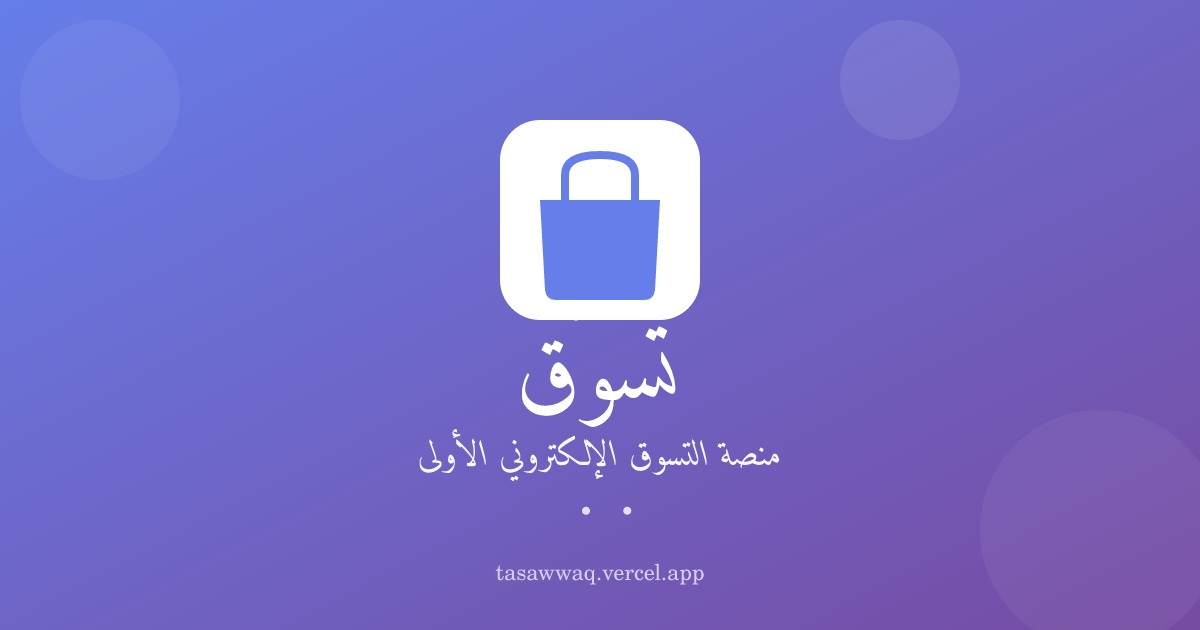
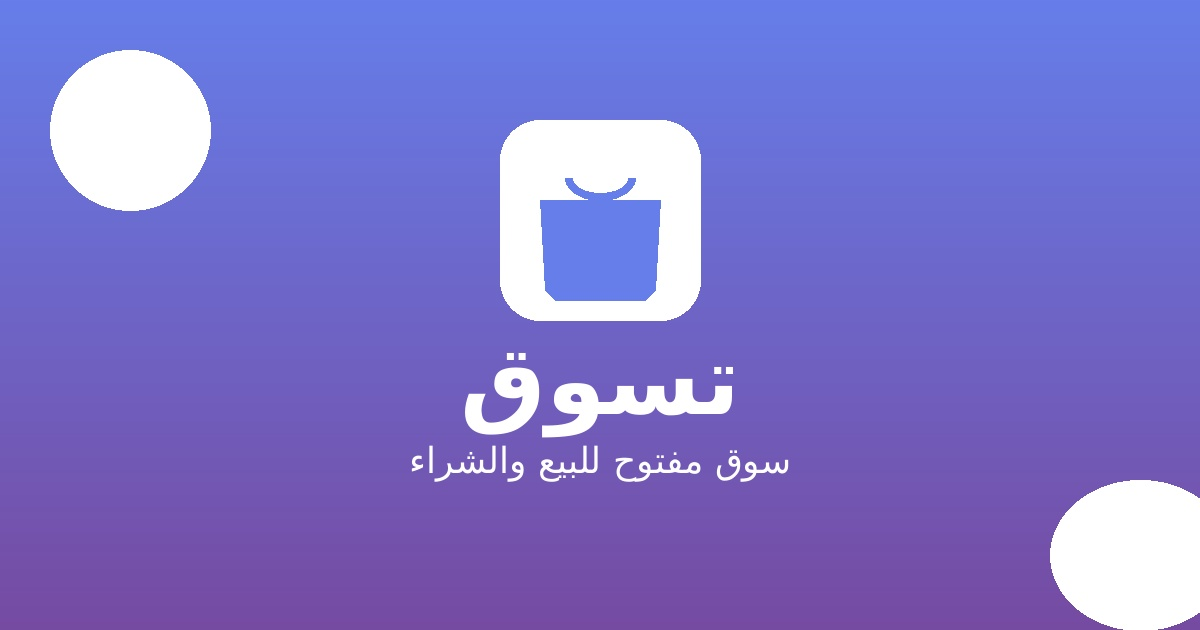
fix: use www domain and recreate og image from scratch

diff --git a/index.html b/index.html
@@ -37,7 +37,7 @@
     <!-- ═══════════════════════════════════════════════════════ -->
     <!-- 🔗 Canonical URL                                        -->
     <!-- ═══════════════════════════════════════════════════════ -->
-    <link rel="canonical" href="https://tasawwaq.store" />
+    <link rel="canonical" href="https://www.tasawwaq.store" />
 
     <!-- ═══════════════════════════════════════════════════════ -->
     <!-- 📝 SEO Meta Tags                                        -->
@@ -72,13 +72,13 @@
     <meta property="og:site_name" content="تسوّق" />
     <meta property="og:title" content="تسوّق | سوق مفتوح للبيع والشراء" />
     <meta property="og:description" content="اشترِ أو بيع منتجاتك على تسوّق بسهولة وأمان." />
-    <meta property="og:image" content="https://tasawwaq.store/og-image.jpg" />
-    <meta property="og:image:secure_url" content="https://tasawwaq.store/og-image.jpg" />
+    <meta property="og:image" content="https://www.tasawwaq.store/og-image.jpg" />
+    <meta property="og:image:secure_url" content="https://www.tasawwaq.store/og-image.jpg" />
     <meta property="og:image:type" content="image/jpeg" />
     <meta property="og:image:width" content="1200" />
     <meta property="og:image:height" content="630" />
     <meta property="og:image:alt" content="تسوّق - سوق مفتوح للبيع والشراء" />
-    <meta property="og:url" content="https://tasawwaq.store" />
+    <meta property="og:url" content="https://www.tasawwaq.store" />
     <meta property="og:locale" content="ar_EG" />
     <meta property="og:locale:alternate" content="ar_AR" />
     <meta property="og:locale:alternate" content="en_US" />
@@ -91,7 +91,7 @@
     <meta name="twitter:creator" content="@tasawwaq" />
     <meta name="twitter:title" content="تسوّق | سوق مفتوح للبيع والشراء" />
     <meta name="twitter:description" content="اشترِ أو بيع منتجاتك على تسوّق بسهولة وأمان." />
-    <meta name="twitter:image" content="https://tasawwaq.store/og-image.jpg" />
+    <meta name="twitter:image" content="https://www.tasawwaq.store/og-image.jpg" />
     <meta name="twitter:image:alt" content="تسوّق - سوق مفتوح للبيع والشراء" />
 
     <!-- ═══════════════════════════════════════════════════════ -->
@@ -122,14 +122,14 @@
       "@type": "WebSite",
       "name": "تسوّق",
       "alternateName": "Tasawwaq",
-      "url": "https://tasawwaq.store",
+      "url": "https://www.tasawwaq.store",
       "description": "تسوّق - سوق مفتوح للبيع والشراء. اشترِ أو بيع منتجاتك بسهولة وأمان.",
       "inLanguage": "ar-EG",
       "potentialAction": {
         "@type": "SearchAction",
         "target": {
           "@type": "EntryPoint",
-          "urlTemplate": "https://tasawwaq.store/products?search={search_term_string}"
+          "urlTemplate": "https://www.tasawwaq.store/products?search={search_term_string}"
         },
         "query-input": "required name=search_term_string"
       }
@@ -145,14 +145,14 @@
       "@type": "Organization",
       "name": "تسوّق",
       "alternateName": "Tasawwaq",
-      "url": "https://tasawwaq.store",
+      "url": "https://www.tasawwaq.store",
       "logo": {
         "@type": "ImageObject",
-        "url": "https://tasawwaq.store/logo.svg",
+        "url": "https://www.tasawwaq.store/logo.svg",
         "width": 512,
         "height": 512
       },
-      "image": "https://tasawwaq.store/og-image.png",
+      "image": "https://www.tasawwaq.store/og-image.jpg",
       "description": "تسوّق - سوق مفتوح للبيع والشراء",
       "foundingDate": "2025",
       "address": {
@@ -189,13 +189,13 @@
       "@context": "https://schema.org",
       "@type": "WebPage",
       "name": "تسوّق - الصفحة الرئيسية",
-      "url": "https://tasawwaq.store",
+      "url": "https://www.tasawwaq.store",
       "description": "تسوّق - سوق مفتوح للبيع والشراء",
       "inLanguage": "ar-EG",
       "isPartOf": {
         "@type": "WebSite",
         "name": "تسوّق",
-        "url": "https://tasawwaq.store"
+        "url": "https://www.tasawwaq.store"
       }
     }
     </script>

diff --git a/src/pages/customer/ProductDetailsPage.jsx b/src/pages/customer/ProductDetailsPage.jsx
@@ -81,7 +81,7 @@ const ProductDetailsPage = () => {
     },
     offers: {
       '@type': 'Offer',
-      url: `https://tasawwaq.store/products/${product.id}`,
+      url: `https://www.tasawwaq.store/products/${product.id}`,
       priceCurrency: 'EGP',
       price: product.price,
       availability: product.stock > 0
@@ -124,13 +124,13 @@ const ProductDetailsPage = () => {
       '@type': 'ListItem',
       position: 1,
       name: 'الرئيسية',
-      item: 'https://tasawwaq.store',
+      item: 'https://www.tasawwaq.store',
     },
     {
       '@type': 'ListItem',
       position: 2,
       name: 'المنتجات',
-      item: 'https://tasawwaq.store/products',
+      item: 'https://www.tasawwaq.store/products',
     },
   ];
 
@@ -139,20 +139,20 @@ const ProductDetailsPage = () => {
       '@type': 'ListItem',
       position: 3,
       name: product.categoryName,
-      item: `https://tasawwaq.store/categories/${product.categoryId}/products`,
+      item: `https://www.tasawwaq.store/categories/${product.categoryId}/products`,
     });
     breadcrumbListItems.push({
       '@type': 'ListItem',
       position: 4,
       name: product.name,
-      item: `https://tasawwaq.store/products/${product.id}`,
+      item: `https://www.tasawwaq.store/products/${product.id}`,
     });
   } else {
     breadcrumbListItems.push({
       '@type': 'ListItem',
       position: 3,
       name: product.name,
-      item: `https://tasawwaq.store/products/${product.id}`,
+      item: `https://www.tasawwaq.store/products/${product.id}`,
     });
   }
 

diff --git a/src/pages/static/AboutPage.jsx b/src/pages/static/AboutPage.jsx
@@ -10,13 +10,13 @@ const AboutPage = () => {
     '@type': 'AboutPage',
     name: 'عن تسوّق',
     description: 'تعرّف على منصة تسوّق - السوق الإلكتروني الأول في مصر. مهمتنا، رؤيتنا، وقيمنا.',
-    url: 'https://tasawwaq.store/about',
+    url: 'https://www.tasawwaq.store/about',
     mainEntity: {
       '@type': 'Organization',
       name: 'تسوّق',
       alternateName: 'Tasawwaq',
-      url: 'https://tasawwaq.store',
-      logo: 'https://tasawwaq.store/logo.svg',
+      url: 'https://www.tasawwaq.store',
+      logo: 'https://www.tasawwaq.store/logo.svg',
       description: 'منصة تسوّق الإلكترونية - السوق الإلكتروني الأول في مصر',
       foundingDate: '2025',
       areaServed: { '@type': 'Country', name: 'Egypt' },
@@ -28,8 +28,8 @@ const AboutPage = () => {
     '@context': 'https://schema.org',
     '@type': 'BreadcrumbList',
     itemListElement: [
-      { '@type': 'ListItem', position: 1, name: 'الرئيسية', item: 'https://tasawwaq.store' },
-      { '@type': 'ListItem', position: 2, name: 'عن تسوّق', item: 'https://tasawwaq.store/about' },
+      { '@type': 'ListItem', position: 1, name: 'الرئيسية', item: 'https://www.tasawwaq.store' },
+      { '@type': 'ListItem', position: 2, name: 'عن تسوّق', item: 'https://www.tasawwaq.store/about' },
     ],
   };
 

diff --git a/src/pages/customer/CategoriesPage.jsx b/src/pages/customer/CategoriesPage.jsx
@@ -44,8 +44,8 @@ const CategoriesPage = () => {
     '@context': 'https://schema.org',
     '@type': 'BreadcrumbList',
     itemListElement: [
-      { '@type': 'ListItem', position: 1, name: 'الرئيسية', item: 'https://tasawwaq.store' },
-      { '@type': 'ListItem', position: 2, name: 'التصنيفات', item: 'https://tasawwaq.store/categories' },
+      { '@type': 'ListItem', position: 1, name: 'الرئيسية', item: 'https://www.tasawwaq.store' },
+      { '@type': 'ListItem', position: 2, name: 'التصنيفات', item: 'https://www.tasawwaq.store/categories' },
     ],
   };
 
@@ -54,7 +54,7 @@ const CategoriesPage = () => {
     '@type': 'CollectionPage',
     name: 'تصنيفات المنتجات',
     description: 'تصفّح جميع تصنيفات المنتجات على تسوّق',
-    url: 'https://tasawwaq.store/categories',
+    url: 'https://www.tasawwaq.store/categories',
     mainEntity: {
       '@type': 'ItemList',
       numberOfItems: categories.length,
@@ -62,7 +62,7 @@ const CategoriesPage = () => {
         '@type': 'ListItem',
         position: index + 1,
         name: cat.name,
-        url: `https://tasawwaq.store/categories/${cat.id}/products`,
+        url: `https://www.tasawwaq.store/categories/${cat.id}/products`,
       })),
     },
   } : null;

diff --git a/src/pages/customer/SellersPage.jsx b/src/pages/customer/SellersPage.jsx
@@ -43,13 +43,13 @@ const SellersPage = () => {
         '@type': 'ListItem',
         position: 1,
         name: 'الرئيسية',
-        item: 'https://tasawwaq.store',
+        item: 'https://www.tasawwaq.store',
       },
       {
         '@type': 'ListItem',
         position: 2,
         name: 'المتاجر',
-        item: 'https://tasawwaq.store/sellers',
+        item: 'https://www.tasawwaq.store/sellers',
       },
     ],
   };
@@ -60,7 +60,7 @@ const SellersPage = () => {
     '@type': 'CollectionPage',
     name: 'المتاجر على تسوّق',
     description: 'تصفّح جميع المتاجر الموثوقة على منصة تسوّق',
-    url: 'https://tasawwaq.store/sellers',
+    url: 'https://www.tasawwaq.store/sellers',
     mainEntity: {
       '@type': 'ItemList',
       numberOfItems: sellers.length,
@@ -70,7 +70,7 @@ const SellersPage = () => {
         item: {
           '@type': 'Store',
           name: seller.storeName,
-          url: `https://tasawwaq.store/sellers/${seller.userId}`,
+          url: `https://www.tasawwaq.store/sellers/${seller.userId}`,
           ...(seller.logoUrl && { image: seller.logoUrl }),
           ...(seller.rating > 0 && {
             aggregateRating: {

diff --git a/src/pages/customer/HomePage.jsx b/src/pages/customer/HomePage.jsx
@@ -23,14 +23,14 @@ const HomePage = () => {
     '@type': 'WebSite',
     name: 'تسوّق',
     alternateName: 'Tasawwaq',
-    url: 'https://tasawwaq.store',
+    url: 'https://www.tasawwaq.store',
     description: 'منصة التسوق الإلكتروني الأولى. اشترِ من آلاف المنتجات أو افتح متجرك الخاص.',
     inLanguage: 'ar-EG',
     potentialAction: {
       '@type': 'SearchAction',
       target: {
         '@type': 'EntryPoint',
-        urlTemplate: 'https://tasawwaq.store/products?search={search_term_string}',
+        urlTemplate: 'https://www.tasawwaq.store/products?search={search_term_string}',
       },
       'query-input': 'required name=search_term_string',
     },
@@ -41,8 +41,8 @@ const HomePage = () => {
     '@type': 'Organization',
     name: 'تسوّق',
     alternateName: 'Tasawwaq',
-    url: 'https://tasawwaq.store',
-    logo: 'https://tasawwaq.store/logo.svg',
+    url: 'https://www.tasawwaq.store',
+    logo: 'https://www.tasawwaq.store/logo.svg',
     description: 'منصة تسوّق الإلكترونية - السوق الإلكتروني الأول في مصر للتسوق وفتح المتاجر',
     foundingDate: '2025',
     areaServed: {

diff --git a/src/pages/customer/SellerStorePage.jsx b/src/pages/customer/SellerStorePage.jsx
@@ -122,7 +122,7 @@ const SellerStorePage = () => {
     '@type': 'Store',
     name: seller.storeName,
     description: seller.storeDescription || `متجر ${seller.storeName} على تسوّق`,
-    url: `https://tasawwaq.store${publicStorePath}`,
+    url: `https://www.tasawwaq.store${publicStorePath}`,
     ...(seller.logoUrl && { image: seller.logoUrl, logo: seller.logoUrl }),
     ...(sellerPhone && { telephone: sellerPhone }),
     ...(seller.rating > 0 && {
@@ -145,19 +145,19 @@ const SellerStorePage = () => {
         '@type': 'ListItem',
         position: 1,
         name: 'الرئيسية',
-        item: 'https://tasawwaq.store',
+        item: 'https://www.tasawwaq.store',
       },
       {
         '@type': 'ListItem',
         position: 2,
         name: 'المتاجر',
-        item: 'https://tasawwaq.store/sellers',
+        item: 'https://www.tasawwaq.store/sellers',
       },
       {
         '@type': 'ListItem',
         position: 3,
         name: seller.storeName,
-        item: `https://tasawwaq.store${publicStorePath}`,
+        item: `https://www.tasawwaq.store${publicStorePath}`,
       },
     ],
   };

diff --git a/src/pages/static/ContactPage.jsx b/src/pages/static/ContactPage.jsx
@@ -34,11 +34,11 @@ const ContactPage = () => {
     '@type': 'ContactPage',
     name: 'تواصل معنا',
     description: 'تواصل مع فريق دعم تسوّق - نحن هنا لمساعدتك',
-    url: 'https://tasawwaq.store/contact',
+    url: 'https://www.tasawwaq.store/contact',
     mainEntity: {
       '@type': 'Organization',
       name: 'تسوّق',
-      url: 'https://tasawwaq.store',
+      url: 'https://www.tasawwaq.store',
       contactPoint: [
         {
           '@type': 'ContactPoint',
@@ -56,8 +56,8 @@ const ContactPage = () => {
     '@context': 'https://schema.org',
     '@type': 'BreadcrumbList',
     itemListElement: [
-      { '@type': 'ListItem', position: 1, name: 'الرئيسية', item: 'https://tasawwaq.store' },
-      { '@type': 'ListItem', position: 2, name: 'تواصل معنا', item: 'https://tasawwaq.store/contact' },
+      { '@type': 'ListItem', position: 1, name: 'الرئيسية', item: 'https://www.tasawwaq.store' },
+      { '@type': 'ListItem', position: 2, name: 'تواصل معنا', item: 'https://www.tasawwaq.store/contact' },
     ],
   };
 

diff --git a/src/pages/customer/CategoryProductsPage.jsx b/src/pages/customer/CategoryProductsPage.jsx
@@ -67,19 +67,19 @@ const CategoryProductsPage = () => {
         '@type': 'ListItem',
         position: 1,
         name: 'الرئيسية',
-        item: 'https://tasawwaq.store',
+        item: 'https://www.tasawwaq.store',
       },
       {
         '@type': 'ListItem',
         position: 2,
         name: 'التصنيفات',
-        item: 'https://tasawwaq.store/categories',
+        item: 'https://www.tasawwaq.store/categories',
       },
       {
         '@type': 'ListItem',
         position: 3,
         name: categoryName,
-        item: `https://tasawwaq.store/categories/${id}/products`,
+        item: `https://www.tasawwaq.store/categories/${id}/products`,
       },
     ],
   };

diff --git a/src/pages/static/ShippingPage.jsx b/src/pages/static/ShippingPage.jsx
@@ -24,8 +24,8 @@ const ShippingPage = () => {
     '@context': 'https://schema.org',
     '@type': 'BreadcrumbList',
     itemListElement: [
-      { '@type': 'ListItem', position: 1, name: 'الرئيسية', item: 'https://tasawwaq.store' },
-      { '@type': 'ListItem', position: 2, name: 'الشحن والتوصيل', item: 'https://tasawwaq.store/shipping' },
+      { '@type': 'ListItem', position: 1, name: 'الرئيسية', item: 'https://www.tasawwaq.store' },
+      { '@type': 'ListItem', position: 2, name: 'الشحن والتوصيل', item: 'https://www.tasawwaq.store/shipping' },
     ],
   };
 

diff --git a/src/pages/static/ReturnPolicyPage.jsx b/src/pages/static/ReturnPolicyPage.jsx
@@ -30,8 +30,8 @@ const ReturnsPolicyPage = () => {
     '@context': 'https://schema.org',
     '@type': 'BreadcrumbList',
     itemListElement: [
-      { '@type': 'ListItem', position: 1, name: 'الرئيسية', item: 'https://tasawwaq.store' },
-      { '@type': 'ListItem', position: 2, name: 'سياسة الإرجاع', item: 'https://tasawwaq.store/returns' },
+      { '@type': 'ListItem', position: 1, name: 'الرئيسية', item: 'https://www.tasawwaq.store' },
+      { '@type': 'ListItem', position: 2, name: 'سياسة الإرجاع', item: 'https://www.tasawwaq.store/returns' },
     ],
   };
 

diff --git a/src/pages/static/PrivacyPage.jsx b/src/pages/static/PrivacyPage.jsx
@@ -89,8 +89,8 @@ const PrivacyPage = () => {
     '@context': 'https://schema.org',
     '@type': 'BreadcrumbList',
     itemListElement: [
-      { '@type': 'ListItem', position: 1, name: 'الرئيسية', item: 'https://tasawwaq.store' },
-      { '@type': 'ListItem', position: 2, name: 'سياسة الخصوصية', item: 'https://tasawwaq.store/privacy' },
+      { '@type': 'ListItem', position: 1, name: 'الرئيسية', item: 'https://www.tasawwaq.store' },
+      { '@type': 'ListItem', position: 2, name: 'سياسة الخصوصية', item: 'https://www.tasawwaq.store/privacy' },
     ],
   };
 
